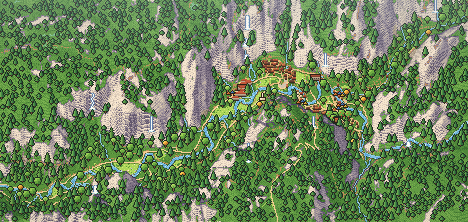
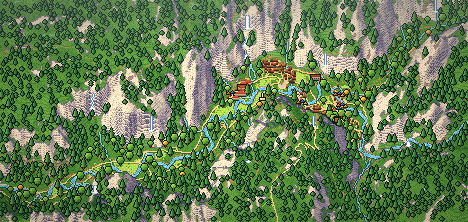
Polish climbing walls and the Valley map: rock grade pass, graded map picture, label shadows
Claude-Session: https://claude.ai/code/session_01H1Ex38fEewWAj6NP9vkYxS

diff --git a/tools/mapgen/oblique/grade.py b/tools/mapgen/oblique/grade.py
@@ -1,0 +1,44 @@
+"""Colour-grades the Valley map picture after gen.js has drawn it.
+
+    python3 tools/mapgen/oblique/grade.py
+
+Gives the picture a touch more contrast, warm sunlit tones and cool shadows,
+a soft vignette toward the edges, and a lift in the blue of the rivers, without
+moving a pixel (the labels, kiosks and the player marker are placed from
+yosemite_valley_view.json, so the geometry must stay put). Safe to run once
+after each gen.js run; running it twice grades twice.
+"""
+import os
+import sys
+
+import numpy as np
+from PIL import Image
+
+PATH = os.path.join(os.path.dirname(__file__), "..", "..", "..", "assets", "map", "areas", "yosemite_valley.png")
+
+
+def main(path: str) -> None:
+    im = Image.open(path).convert("RGBA")
+    a = np.asarray(im).astype(np.float32) / 255.0
+    rgb, alpha = a[..., :3], a[..., 3:]
+    lum = (rgb * np.array([0.3, 0.55, 0.15], dtype=np.float32)).sum(axis=-1, keepdims=True)
+    # contrast curve around mid grey
+    rgb = (rgb - 0.5) * 1.12 + 0.5
+    # warm the lights, cool the shadows
+    warm = (lum - 0.45) * 0.07
+    rgb = rgb + np.concatenate([warm, warm * 0.35, -warm], axis=-1)
+    # rivers and lakes (blue-dominant pixels) get a little more blue
+    blue = np.clip((rgb[..., 2:3] - np.maximum(rgb[..., 0:1], rgb[..., 1:2])) * 6.0, 0.0, 1.0)
+    rgb = rgb + blue * np.array([-0.02, 0.03, 0.07], dtype=np.float32)
+    # vignette
+    h, w = rgb.shape[:2]
+    yy, xx = np.mgrid[0:h, 0:w].astype(np.float32)
+    d = np.sqrt(((xx - w / 2) / (w / 2)) ** 2 + ((yy - h / 2) / (h / 2)) ** 2)
+    rgb = rgb * (1.0 - np.clip((d - 0.55) * 0.28, 0.0, 0.2))[..., None]
+    out = np.concatenate([np.clip(rgb, 0.0, 1.0), alpha], axis=-1)
+    Image.fromarray((out * 255.0 + 0.5).astype(np.uint8), "RGBA").save(path)
+    print("graded", os.path.normpath(path))
+
+
+if __name__ == "__main__":
+    main(sys.argv[1] if len(sys.argv) > 1 else PATH)

diff --git a/README.md b/README.md
@@ -134,6 +134,7 @@ The four generated hubs (El Portal, Wawona, Glacier Point, Tuolumne Meadows) and
 - **Flora atlas.** `tools/mapgen/flora_hd.gd` draws every tree, shrub, boulder, tent and cabin in `assets/sprites/flora.png` with the Ahwahnee ramps and dithering, in the same 32x48 frames, so no scene changed. Run `godot --headless --path . res://tools/mapgen/paint_flora.tscn` (it also writes the info sign, trailhead and map kiosk, and `docs/generated_flora_preview.png`).
 - **Valley scenes.** The Village, Camp 4, Curry Village, the homestead and the Stoneman trail got finer ground: trampled-duff campground, a gravel lot with worn lanes, curbs and contact shadows where plazas meet grass, and the Indian Village grinding rock now has its bedrock-mortar sprite. After changing `ahwahnee_ground.gd`, run `godot --headless --path . res://tools/hubs/repaint_ground.tscn` (repaints the pictures without rebuilding scenes).
 - **Shop interiors and hotel grounds.** The Store and Mountain Shop rooms get a lamp-lit vignette, a ceiling-beam shadow, woven lozenge rugs with fringe, and lit furniture (`interior_ahwahnee_art.gd`; redraw with `res://tools/hubs/repaint_interiors.tscn`). The hotel grounds' lawn has wide mown swaths with clover and drier patches, and its road gets shoulders (`repaint_ground.tscn -- the_ahwahnee`).
+- **Climbing and the Valley map.** Every climbing wall gets a final grade pass (`ClimbRock._finish`: contrast, warm lights and cool shadows, shade turning toward the corner). The Valley map picture is color-graded with `python3 tools/mapgen/oblique/grade.py` (run it once after `gen.js`), and its labels have drop shadows and lit edges.
 - **UI.** Panels are a nine-slice timber frame with a brass line (`tools/ui/ui_art.gd` writes `assets/ui/panel.png`), and the whole UI uses the Tiny5 pixel font at size 10, set in `assets/ui/theme.tres`. `tools/shots/ui_shot.tscn` saves screenshots of the HUD, journal, pause menu, conversation and maps.
 - **People.** `tools/npcgen/npcgen.gd` now lights each figure from the upper left, tints the outline from the color it touches, and bakes in a ground shadow. The player is drawn by the same script (`Looks.PLAYER`).
 
